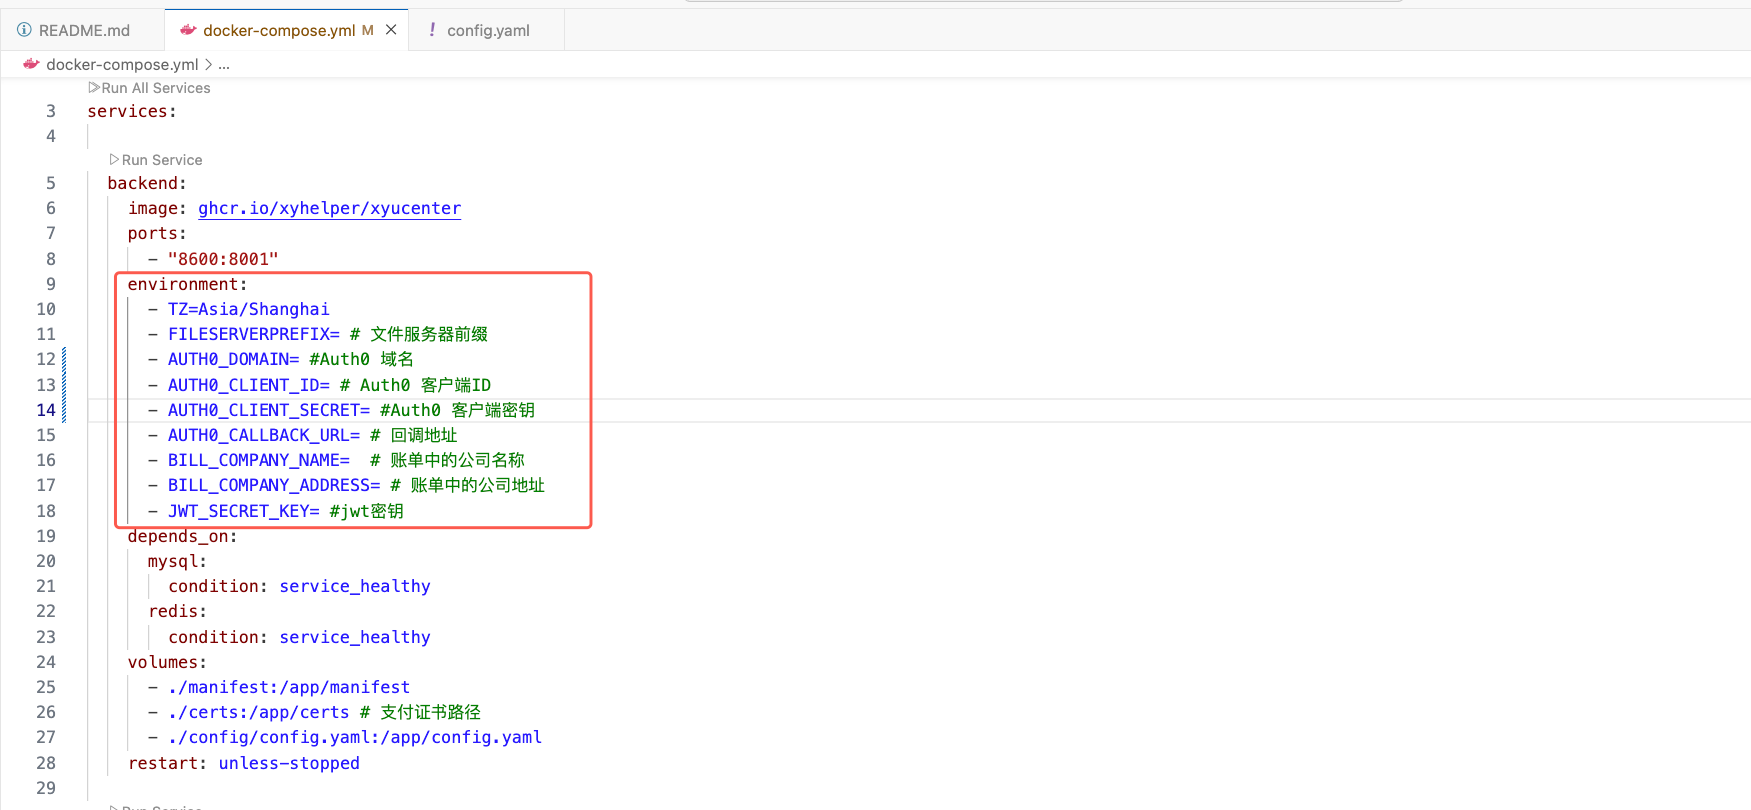
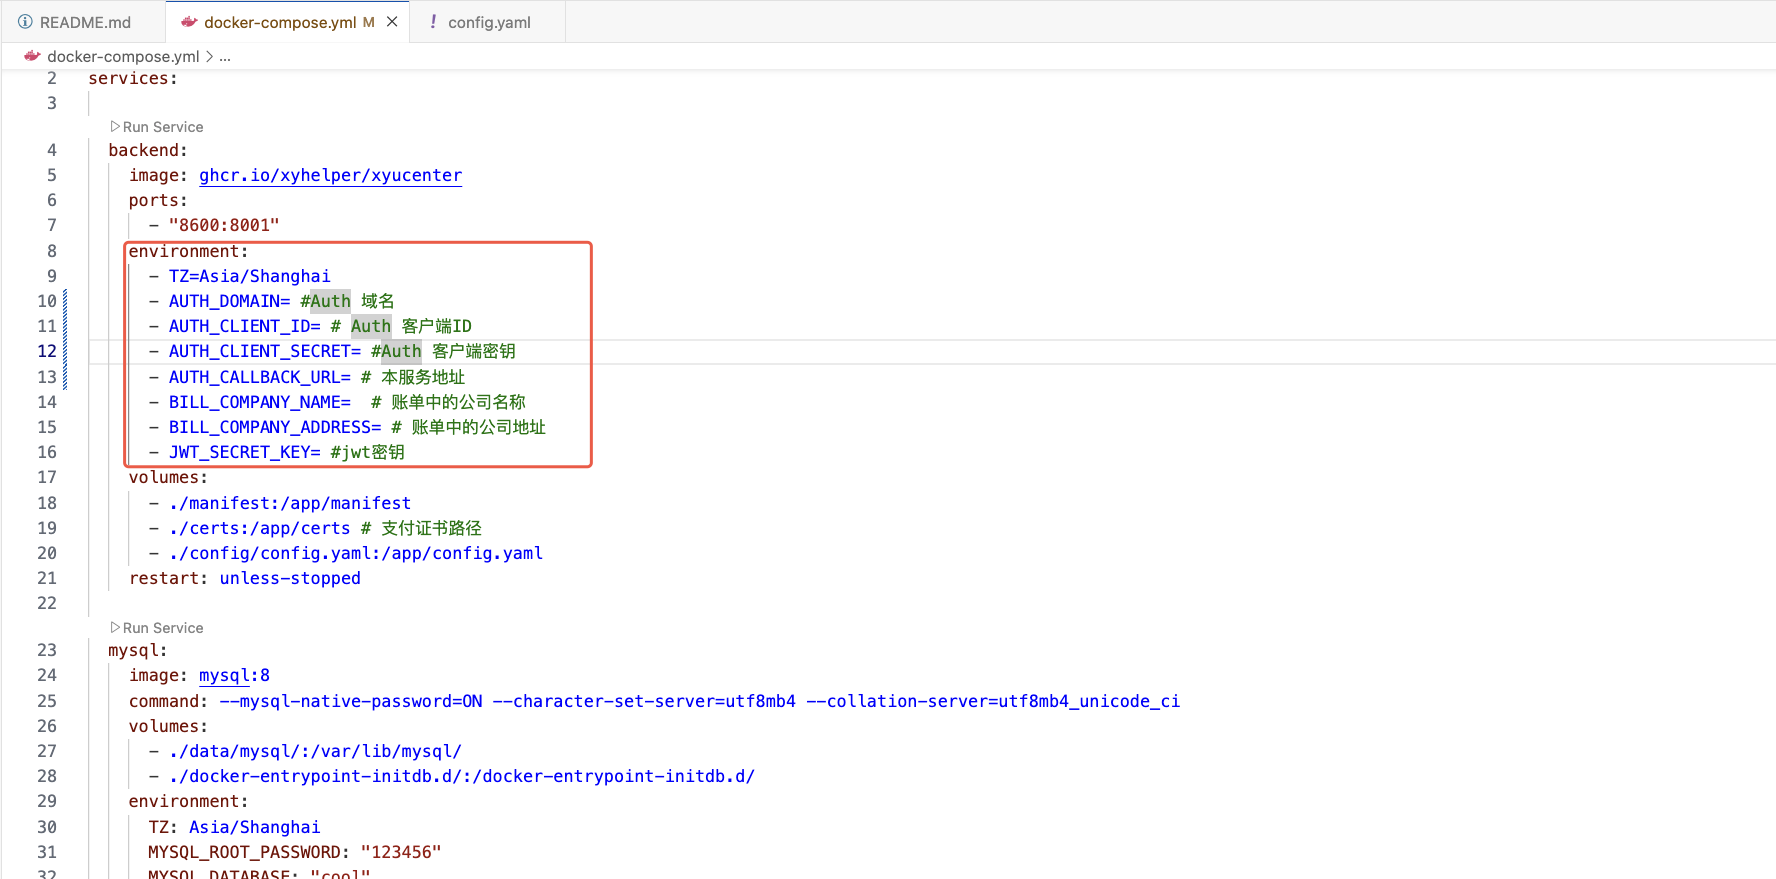
update

Changed region(s): [[0.0, 0.0, 0.6476, 1.0]]

diff --git a/README.md b/README.md
@@ -51,8 +51,10 @@ cd xyucenter-backend
 2. 项目克隆之后，打开该项目，打开之后如下图所示，打开docker-compose.yml，修改环境变量
    ![alt text](images/image-2.png)
 
-3. 配置AUTH0参数，找到backend服务下面的environment
-   修改AUTH0_DOMAIN、AUTH0_CLIENT_ID、AUTH0_CLIENT_SECRET的参数值，具体数据从auth0中获取，登录https://auth0.com/
+3. 配置AUTH参数，找到backend服务下面的environment
+   修改AUTH_DOMAIN、AUTH_CLIENT_ID、AUTH_CLIENT_SECRET的参数值，
+   支持两种方式配置：auth0和authorizer，下面介绍auth0的参数配置（authorizer同理获取到AUTH_DOMAIN、AUTH_CLIENT_ID、AUTH_CLIENT_SECRET参数配置即可）
+   具体数据从auth0中获取，登录https://auth0.com/
    注册应用之后，点击Applications中应用，然后找到配置信息,替换你自己的Auth0的域名，客户端ID以及客户端密钥
    ![alt text](images/image-3.png)
    ![alt text](images/image-4.png)
